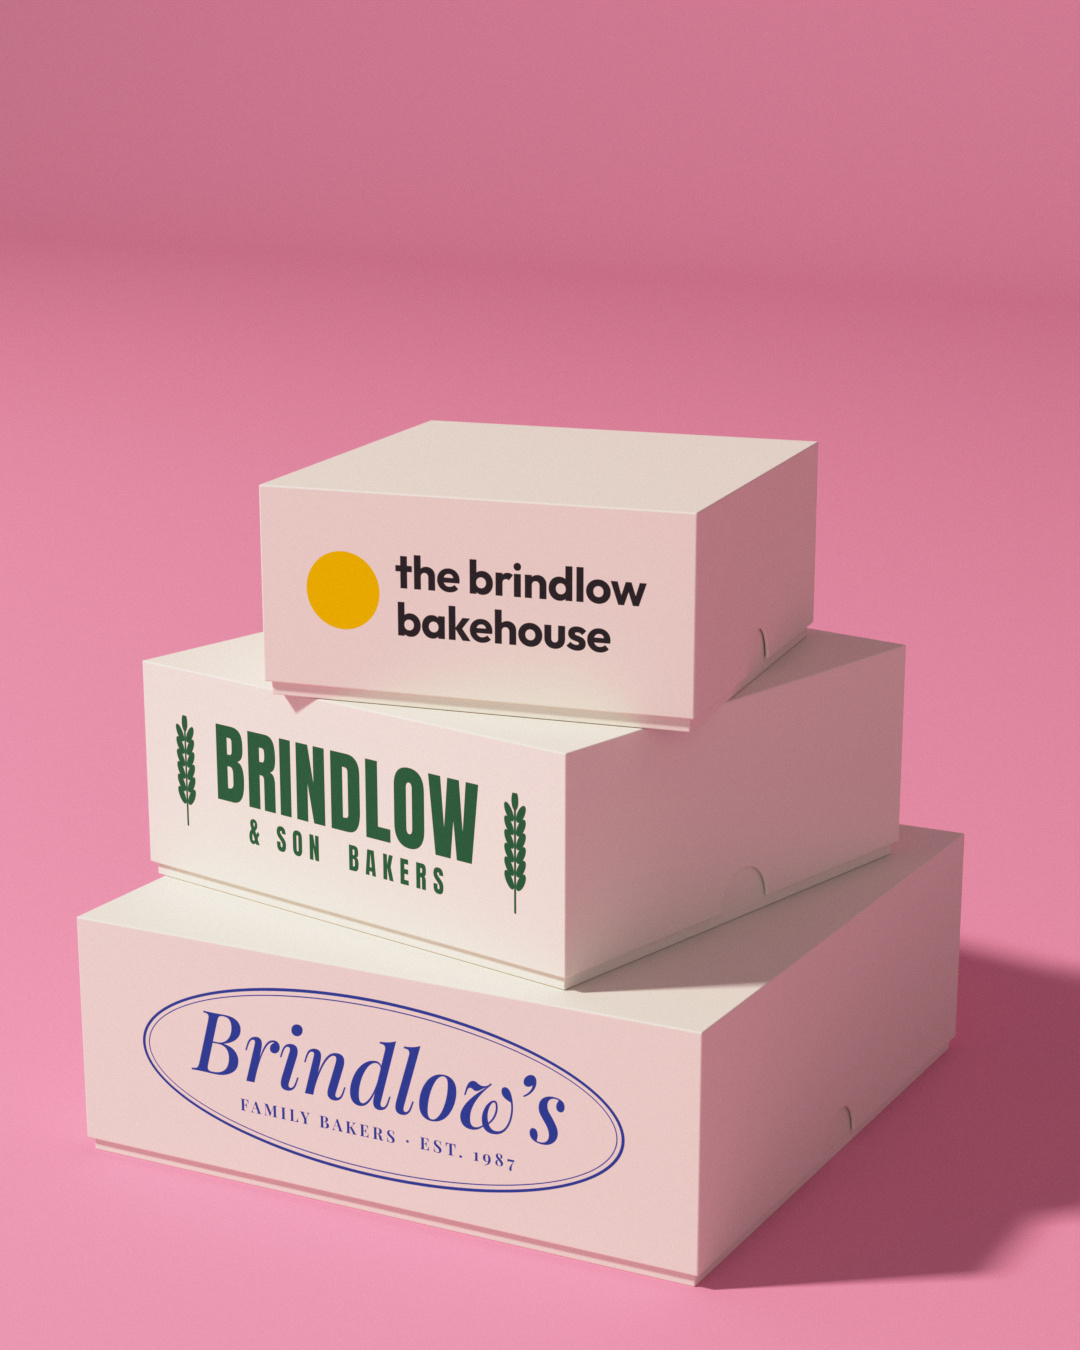
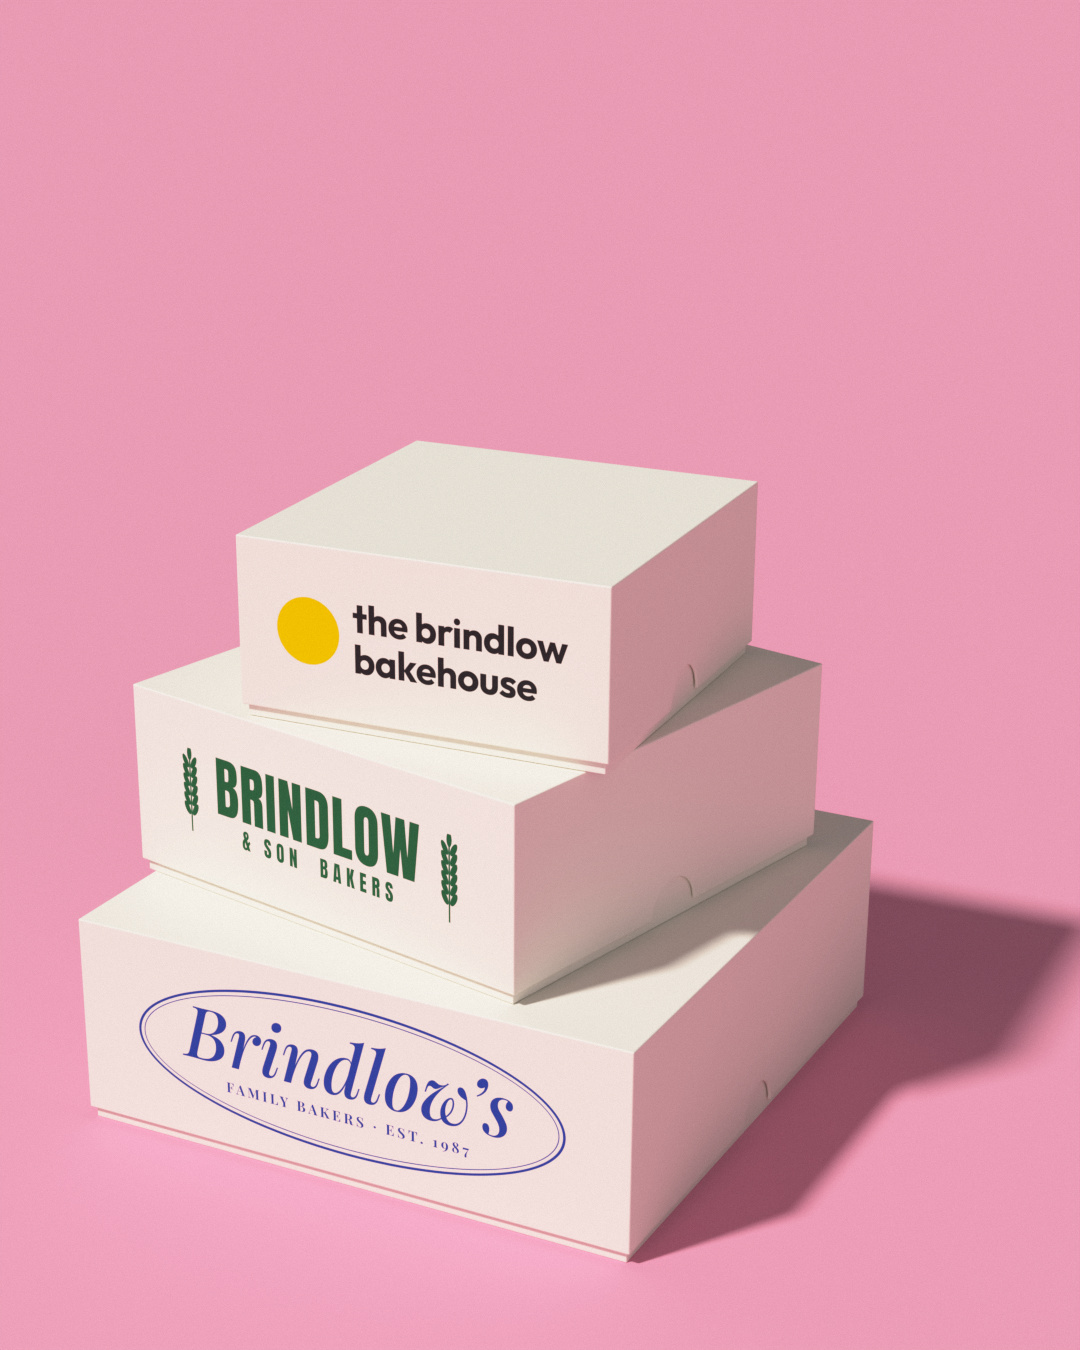
Hold 23 Nov 08:33 carousel (makes-four, branding): design review 6.5 twice; log and notes
Claude-Session: https://claude.ai/code/session_015dF8ti7UigceYLcJ73EH3F

diff --git a/posts/2026-11-23-0833-makes-four/art/slide-03.html b/posts/2026-11-23-0833-makes-four/art/slide-03.html
@@ -3,10 +3,10 @@
 .frame{background:#E79DB6}
 .pic{position:absolute;inset:0;background:url({{post}}/art/render-03.jpg) center/cover}
 .h{position:absolute;left:72px;top:76px;font:800 152px/.93 Brico;letter-spacing:-.035em;color:#4E0B1B;white-space:nowrap}
-.c{position:absolute;left:76px;top:392px;font:800 50px/1 Brico;letter-spacing:-.015em;color:#4E0B1B;white-space:nowrap}
+.c{position:absolute;left:76px;top:384px;font:800 44px/1 Brico;letter-spacing:-.015em;color:#4E0B1B;white-space:nowrap}
 .lg{position:absolute;left:76px;bottom:76px}.lg .nx-logo{height:52px}
 </style>
 <div class="pic"></div>
-<div class="h">We&rsquo;d make<br>it one.</div>
+<div class="h"><span style="letter-spacing:-.01em">W</span>e&rsquo;d make<br>it one.</div>
 <div class="c">See what we build at nexulabs.co.uk</div><div class="lg"><!--logo:#4E0B1B,#4E0B1B--></div>
 <!--grain:0.03-->

diff --git a/posts/2026-11-23-0833-makes-four/art/build.py b/posts/2026-11-23-0833-makes-four/art/build.py
@@ -1,6 +1,6 @@
 """Renders the pictures for this carousel with Blender's Python module (pip install bpy; run with python3.13).
 
-A made-up bakery's packaging on a pink paper sweep: three card boxes stacked, then a paper bag beside them.
+A made-up bakery's packaging on pink paper: three card boxes stacked, then a paper bag beside them.
 Before, every piece carries a different logo (prints: art/print.py). After, one brand on all of them.
 Shot from the same side three ways:
   1  the whole stack of three, three logos
@@ -18,18 +18,19 @@ from mathutils import Vector, Matrix
 HERE = Path(__file__).resolve().parent
 W, H = 1080, 1350
 TMP = Path(tempfile.gettempdir())
-EXPOSURE = 1.3
+EXPOSURE = 1.0
+SUN = 3.2
 PINK = "#F2A0BC"
 CARD, CREAM, OX = "#F3EEE3", "#F6EBDD", "#6E1423"
 
 # name: (width, depth, height), position x, y, yaw in degrees
-STACK = [("1", (30, 30, 11), (0.0, 0.0), 5), ("2", (24.5, 24.5, 10), (-1.2, 0.8), -7), ("3", (19, 19, 9), (0.9, -0.6), 13)]
+STACK = [("1", (30, 30, 11), (0.0, 0.0), 5), ("2", (24.5, 24.5, 10), (-1.2, 0.8), -7), ("3", (19, 19, 9), (0.6, 0.2), 8)]
 BW, BD, BH = 17.0, 9.5, 33.0
 
 SHOTS = {
-    1: dict(loc=(66, -102, 50), aim=(0, 0, 14), lens=62, f=0.6, focus=(4, -14, 16), shift=(-0.001, 0.10), state="a", bag=None),
-    2: dict(loc=(75, -115, 14), aim=(29.4, -26, 14), lens=38.6, f=0.3, focus=(50, -45, 14), shift=(0.0045, 0.175), state="a", bag=(50.0, -41.0, -8)),
-    3: dict(loc=(78, -122, 118), aim=(-10, -6, 12), lens=60, f=0.6, focus=(-4, -14, 16), shift=(0.0115, 0.13), state="b", bag=(-28.0, -16.0, 16)),
+    1: dict(loc=(68, -105, 66), aim=(0, 0, 13), lens=59.5, f=0.8, focus=(4, -14, 16), shift=(0.035, 0.116), state="a", bag=None),
+    2: dict(loc=(52, -118, 62), aim=(8, -8, 14), lens=46, f=0.8, focus=(10, -18, 16), shift=(0.067, 0.11), state="a", bag=(31.0, -20.0, 20)),
+    3: dict(loc=(78, -122, 118), aim=(-10, -6, 12), lens=52, f=0.8, focus=(-4, -14, 16), shift=(-0.0025, 0.130), state="b", bag=(-33.0, -16.0, 16)),
 }
 
 
@@ -216,20 +217,8 @@ def bag(pos, front, body, flap):
 def scene(frame):
     shot = SHOTS[frame]
     # the paper sweep: a floor running up into a wall
-    prof = [(-900, 0)] + [(330, 0)]
-    R = 170
-    for i in range(1, 25):
-        a = i / 24 * math.pi / 2
-        prof.append((330 + R * math.sin(a), R - R * math.cos(a)))
-    prof.append((330 + R, 1400))
-    V, F = [], []
-    for i, (y, z) in enumerate(prof):
-        V += [(-2400, y, z), (2400, y, z)]
-        if i:
-            F.append((2 * i - 2, 2 * i - 1, 2 * i + 1, 2 * i))
+    V, F = [(-9000, -9000, 0), (9000, -9000, 0), (9000, 9000, 0), (-9000, 9000, 0)], [(0, 1, 2, 3)]
     me = bpy.data.meshes.new("sweep"); me.from_pydata(V, [], F)
-    for p in me.polygons:
-        p.use_smooth = True
     sw = link(bpy.data.objects.new("sweep", me))
     m, nt, p = mat("sweep"); p.inputs["Base Color"].default_value = (*lin(PINK), 1); p.inputs["Roughness"].default_value = 0.9; p.inputs["Specular IOR Level"].default_value = 0.1
     paper_bump(nt, p, strength=0.05, scale=40)
@@ -277,17 +266,16 @@ def build(frame, quality):
     shot = SHOTS[frame]
     T = (0, 0, 14)
     # key: a small window high on the left and a little in front, so every box and the bag throw a shadow to the right
-    key = bpy.data.lights.new("key", "AREA"); key.shape = "RECTANGLE"; key.size = 46; key.size_y = 60
-    key.energy = 2.6e6; key.color = (1.0, 0.965, 0.92)
-    ko = link(bpy.data.objects.new("key", key)); ko.location = (-330, -300, 420); aim(ko, T)
-    fl = bpy.data.lights.new("fill", "AREA"); fl.size = 500; fl.energy = 3.4e5; fl.color = (1.0, 0.95, 0.97)
-    fo = link(bpy.data.objects.new("fill", fl)); fo.location = (420, -520, 160); aim(fo, T)
+    key = bpy.data.lights.new("key", "SUN"); key.energy = SUN; key.angle = math.radians(5); key.color = (1.0, 0.965, 0.92)
+    ko = link(bpy.data.objects.new("key", key)); ko.location = (-200, -380, 500); aim(ko, (0, 0, 0))
+    fl = bpy.data.lights.new("fill", "SUN"); fl.energy = SUN * 0.16; fl.angle = math.radians(60); fl.color = (1.0, 0.95, 0.97)
+    fo = link(bpy.data.objects.new("fill", fl)); fo.location = (420, -420, 200); aim(fo, (0, 0, 0))
 
     cam = bpy.data.cameras.new("cam"); co = link(bpy.data.objects.new("cam", cam)); sc.camera = co
     cam.sensor_fit = "VERTICAL"; cam.sensor_height = 30
     co.location = shot["loc"]; aim(co, shot["aim"])
     cam.lens = shot["lens"]; cam.shift_x, cam.shift_y = shot["shift"]
-    cam.clip_start = 1; cam.clip_end = 6000
+    cam.clip_start = 1; cam.clip_end = 30000
     cam.dof.use_dof = True
     cam.dof.focus_distance = (Vector(shot["focus"]) - co.location).dot((Vector(shot["aim"]) - co.location).normalized())
     cam.dof.aperture_fstop = shot["f"]

diff --git a/posts/2026-11-23-0833-makes-four/art/print.py b/posts/2026-11-23-0833-makes-four/art/print.py
@@ -61,10 +61,10 @@ def a1():
 def a2():
     w, h = BOXES["2"]
     g = "#145C36"
-    return page(w, h, CARD, f'''<div class="c"><div class="r">{wheat(g, 520)}<div><div class="n">BRINDLOW</div><div class="t">&amp; SON &nbsp;BAKERS</div></div>{wheat(g, 520)}</div></div>''', f'''
+    return page(w, h, CARD, f'''<div class="c"><div class="r">{wheat(g, 450)}<div><div class="n">BRINDLOW</div><div class="t">&amp; SON &nbsp;BAKERS</div></div>{wheat(g, 450)}</div></div>''', f'''
 .r{{display:flex;align-items:center;gap:90px;color:{g}}}
-.n{{font:400 400px/.9 Anton;letter-spacing:.015em}}
-.t{{font:400 132px/1 Anton;letter-spacing:.27em;margin-top:34px;text-align:center;margin-right:-.27em}}''')
+.n{{font:400 345px/.9 Anton;letter-spacing:.015em}}
+.t{{font:400 114px/1 Anton;letter-spacing:.27em;margin-top:30px;text-align:center;margin-right:-.27em}}''')
 
 
 def a3():
@@ -79,14 +79,14 @@ def stamp():
     """A round rubber stamp, a little off square, the ink uneven."""
     w, h = BAG
     W_, H_ = int(w * S), int(h * S)
-    ink = "#4B3524"
+    ink = "#2B1A10"
     rng = random.Random(11)
-    blots = "".join(f'<circle cx="{rng.uniform(-560, 560):.0f}" cy="{rng.uniform(-560, 560):.0f}" r="{rng.uniform(4, 15):.0f}"/>' for _ in range(70))
+    blots = "".join(f'<circle cx="{rng.uniform(-560, 560):.0f}" cy="{rng.uniform(-560, 560):.0f}" r="{rng.uniform(4, 15):.0f}"/>' for _ in range(34))
     return page(w, h, CARD, f'''<svg width="{W_}" height="{H_}" viewBox="0 0 {W_} {H_}">
 <defs><path id="ct" d="M -415 0 A 415 415 0 1 1 415 0"/><path id="cb" d="M -468 0 A 468 468 0 0 0 468 0"/>
 <filter id="rough" x="-10%" y="-10%" width="120%" height="120%"><feTurbulence type="fractalNoise" baseFrequency="0.035" numOctaves="3" seed="4"/><feDisplacementMap in="SourceGraphic" scale="9"/></filter>
 <mask id="m"><rect x="-700" y="-700" width="1400" height="1400" fill="#fff"/><g fill="#000">{blots}</g><rect x="-700" y="210" width="1400" height="60" fill="#000" opacity=".35" transform="rotate(-18)"/></mask></defs>
-<g transform="translate({W_ / 2:.0f} 1880) rotate(-7)" filter="url(#rough)"><g mask="url(#m)" fill="{ink}" opacity=".9">
+<g transform="translate({W_ / 2:.0f} 1880) rotate(-7) scale(1.12)" filter="url(#rough)"><g mask="url(#m)" fill="{ink}" opacity=".97">
 <circle r="575" fill="none" stroke="{ink}" stroke-width="20"/><circle r="535" fill="none" stroke="{ink}" stroke-width="7"/>
 <circle r="268" fill="none" stroke="{ink}" stroke-width="9"/>
 <text font-family="Oswald" font-weight="700" font-size="128" letter-spacing="8" text-anchor="middle"><textPath href="#ct" startOffset="50%">BRINDLOWS BAKERY</textPath></text>
@@ -100,7 +100,7 @@ def stamp():
 def word(size, col, sub=True, subcol=None):
     s = f'<div style="font:600 {size}px/1 Fraun;letter-spacing:-.025em;color:{col}">Brindlow</div>'
     if sub:
-        s += f'<div style="font:400 {size * .135:.0f}px/1 Mono;letter-spacing:.42em;margin-right:-.42em;color:{subcol or col};margin-top:{size * .16:.0f}px">BAKEHOUSE &middot; SINCE 1987</div>'
+        s += f'<div style="font:400 {size * .17:.0f}px/1 Mono;letter-spacing:.3em;margin-right:-.3em;color:{subcol or col};margin-top:{size * .2:.0f}px">BAKEHOUSE &middot; SINCE 1987</div>'
     return s
 
 
@@ -110,17 +110,17 @@ def mono(d, fg, bg):
 
 def b1():
     w, h = BOXES["1"]
-    return page(w, h, CREAM, f'<div class="c">{word(560, OX)}</div>')
+    return page(w, h, CREAM, f'<div class="c">{word(470, OX)}</div>')
 
 
 def b2():
     w, h = BOXES["2"]
-    return page(w, h, OX, f'<div class="c">{word(440, CREAM)}</div>')
+    return page(w, h, OX, f'<div class="c">{word(380, CREAM)}</div>')
 
 
 def b3():
     w, h = BOXES["3"]
-    return page(w, h, CREAM, f'<div class="c" style="flex-direction:row;gap:90px">{mono(430, CREAM, OX)}<div>{word(270, OX, sub=False)}<div style="font:400 40px/1 Mono;letter-spacing:.4em;color:{OX};margin-top:40px">BAKEHOUSE</div></div></div>')
+    return page(w, h, CREAM, f'<div class="c" style="flex-direction:row;gap:80px">{mono(400, CREAM, OX)}{word(250, OX, sub=False)}</div>')
 
 
 def btop():
@@ -130,7 +130,7 @@ def btop():
 
 def bbag():
     w, h = BAG
-    return page(w, h, CREAM, f'<div class="c" style="justify-content:flex-start;padding-top:1520px">{mono(900, CREAM, OX)}<div style="height:150px"></div>{word(300, OX)}</div>')
+    return page(w, h, CREAM, f'<div class="c" style="justify-content:flex-start;padding-top:1520px">{mono(900, CREAM, OX)}<div style="height:150px"></div>{word(300, OX, sub=False)}</div>')
 
 
 def plain(w, h, col):

diff --git a/DESIGN.md b/DESIGN.md
@@ -213,6 +213,8 @@ One carousel (the colour-contrast post) went through eleven independent reviews 
 
 - A blueprint of a homepage unrolling held at 6 twice (22 Nov evening, the "drawn up first" Reel, draft and `HELD.md` in `posts/2026-11-22-1933-drawn-up-first`, `art/build.py`, `art/print.py`). The free homepage concept as a white-line plan on blue, white on the back, unrolling on plaster pink towards the headline. The low shot along the roll from its open end (the spiral of paper edges sharp, the plan soft behind) scored 7 both times. What cost it: the whole sheet seen from above was "a 2D wireframe with a white bar across it" (basic), and seen from the front under the wordmark "a centred product shot on a flat backdrop" (basic); one prop and no room is "a good mockup template"; print near the edge of a long sheet is cut by the frame in every close shot; type under the object left bare table that both reviewers counted as dead space. A roll renders in 3 minutes a frame, so the time went on two designs, not on waiting. Pinning a world point to a pixel with lens shift (`pin` in that script) makes composing quick.
 
+- Card boxes and a paper bag for a made-up bakery held at 6.5 twice (23 Nov, the "makes four" carousel, draft and `HELD.md` in `posts/2026-11-23-0833-makes-four`, `art/build.py`, `art/print.py`). Branding as three boxes with three different logos, a stamped bag with a fourth, then one brand on all of them. Both reviewers rated the idea, the line ("One bakery. Three logos. / The bag makes four. / We'd make it one.") and the pink, cream and oxblood palette, and scored frames 1 and 3 at 7. What cost it: the bag seen square on is "a cardboard cutout" (turn it so a gusset shows); the stack changing size and angle between frames 1 and 2 (lock the camera and only add the bag); deliberately dated logos that look like mock-up errors once seen in perspective; small print on packaging under 20px. A sun lamp for the key and no back wall gives the same backdrop colour in every frame, which round 1 had marked down. A larger `shift_y` moves the picture down the frame. Boxes and a bag render in 2 minutes a frame, drafts in 6 seconds.
+
 **The craft list that came up in every review**
 - Measure, don't eyeball: `python3 tools/ink.py posts/<id>/slide-01.jpg` prints where the ink is, so gaps and padding can be made equal on purpose.
 - Nothing within about 40px of anything else unless it is meant to touch. Padding inside a box equal on all four sides (measured from the ink, not the CSS box). The gap above a block and the gap below it equal, or clearly different.

diff --git a/posts/2026-11-23-0833-makes-four/HELD.md b/posts/2026-11-23-0833-makes-four/HELD.md
@@ -1,0 +1,18 @@
+# Held: not published (23 Nov 2026, 08:33 slot)
+
+Branding, problem-solution, for a made-up bakery (Brindlow). "One bakery. Three logos. / The bag makes four. / We'd make it one." Ends on "See what we build at nexulabs.co.uk".
+
+Two independent design reviews, 6.5 both times (pass mark 7). Fact-check: PASS. `studio.py check`: pass. The scheduled task says to publish nothing after two failed rounds, so nothing went out.
+
+## Round 1: 6.5 (frames 7, 5.5, 7)
+- Frame 2 called basic: shot low with the stack small and soft behind the bag, a wall line in the backdrop, the bag's edge on the same line as a box corner, and a pale stamp.
+- Fixed before round 2: one sun for the key and no wall, so the pink is the same in every frame; frame 2 reshot from high with the bag overlapping the blank side of the boxes; a darker stamp; smaller logos kept off the box corners; the top box no longer overhanging.
+
+## Round 2: 6.5 (frames 7, 5.5, 7), no frame called basic
+- Frame 2 still the weakest. The bag seen square on is "a flat rectangle", "a cardboard cutout" beside boxes with real volume: turn it so a gusset shows. Its edge still lands near two box corners. A dark line on the top edge of the render from x 600 (the horizon, just in frame).
+- The stack changes size and angle between frames 1 and 2: both reviewers wanted one locked camera with only the bag added.
+- The green logo's wheat ears sit at different heights once the face is seen in perspective, and its second line has a double gap: read as a mock-up error, not as a dated logo. The oval logo's lettering comes within 15px of the oval.
+- Frame 3: bag edge 30px inside the type margin, small print on the boxes too small to read, wordmark close under the stack.
+
+## If it is picked up again
+Lock frames 1 and 2 to one camera, turn the bag about 35 degrees, pitch the camera down a little more in frame 2, redraw the green logo square, and take the small print off every box.
